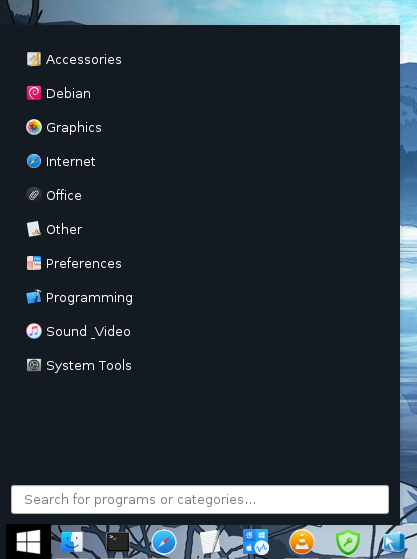
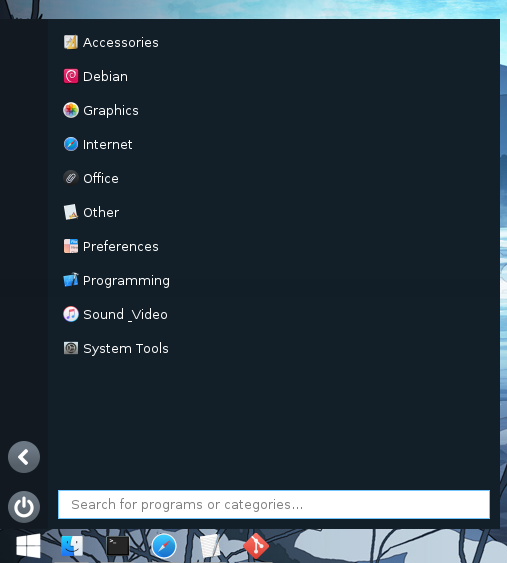
Add left column with useless buttons and fix ports

Changed region(s): [[0.0, 0.0, 1.0, 1.0]]

diff --git a/startmenu.py b/startmenu.py
@@ -2,13 +2,14 @@
 
 import gtk
 from dockbarx.applets import DockXApplet
-from subprocess import Popen, call, check_output, CalledProcessError
+from subprocess import Popen
 from threading import Thread
 import time
+import socket
 
-def do(args):
-	try: call(args)
-	except CalledProcessError: pass
+HOST = '127.0.0.1'
+PORT = 8080
+BUFFER_SIZE = 1024
 
 class ProcessThread(Thread):
 	
@@ -32,55 +33,65 @@ class StartMenuApplet(DockXApplet):
 		self.add(self.image)
 		self.image.show()
 		
-		self.connect('enter-notify-event', self.on_mouse_over)
-		self.connect('leave-notify-event', self.on_mouse_leave)
-		self.connect('clicked', self.clicked)
-		self.show()
-		
 		self.active = False
-		self.started = False
+		self.hover = False
 		
-	def start_process(self):
 		self.process = ProcessThread(['startmenu'])
 		self.process.start()
 		
 		self.thread = Thread(target=self.update)
 		self.thread.start()
-		self.started = True
+		
+		self.connect('enter-notify-event', self.on_mouse_over)
+		self.connect('leave-notify-event', self.on_mouse_leave)
+		self.connect('clicked', self.clicked)
+		self.show()
 	
+	# Socket
+	def send(self, argument):
+		s = socket.socket(socket.AF_INET, socket.SOCK_STREAM)
+		try:
+			s.connect((HOST, PORT))
+		except socket.error, OSError:
+			return
+		s.send(argument.decode('utf-8'))
+		data = s.recv(BUFFER_SIZE)
+		s.close()
+		return data
+	
+	# Update thread
 	def update(self):
 		while True:
-			try:
-				output = check_output(['startmenuctl', 'status'])
-			except CalledProcessError:
-				output = '0'
+			output = self.send('status')
 			if output == '1':
 				self.active = True
 				self.image.set_from_file('/usr/share/dockbarx/applets/startmenu-active.png')
 			else:
+				if self.hover:
+					self.hover = False
 				self.active = False
 				self.image.set_from_file('/usr/share/dockbarx/applets/startmenu.png')
-			time.sleep(0.5)
+			time.sleep(0.1)
 	
+	# Event handlers
 	def clicked(self, widget, event):
 		print 'clicked'
 		if self.active:
 			self.image.set_from_file('/usr/share/dockbarx/applets/startmenu.png')
-			do(['startmenuctl', 'hide'])
+			self.send('hide')
 			self.active = False
 		else:
 			self.image.set_from_file('/usr/share/dockbarx/applets/startmenu-active.png')
-			if not self.started:
-				self.start_process()
-			do(['startmenuctl', 'show'])
+			self.send('show')
 			self.active = True
 	
 	def on_mouse_over(self, widget, event):
 		self.image.set_from_file('/usr/share/dockbarx/applets/startmenu-active.png')
+		self.hover = True
 	
 	def on_mouse_leave(self, widget, event):
-		if not self.active:
-			self.image.set_from_file('/usr/share/dockbarx/applets/startmenu.png')
+		self.image.set_from_file('/usr/share/dockbarx/applets/startmenu.png')
+		self.hover = False
 
 def get_dbx_applet(dbx_dict):
 	applet = StartMenuApplet(dbx_dict)
